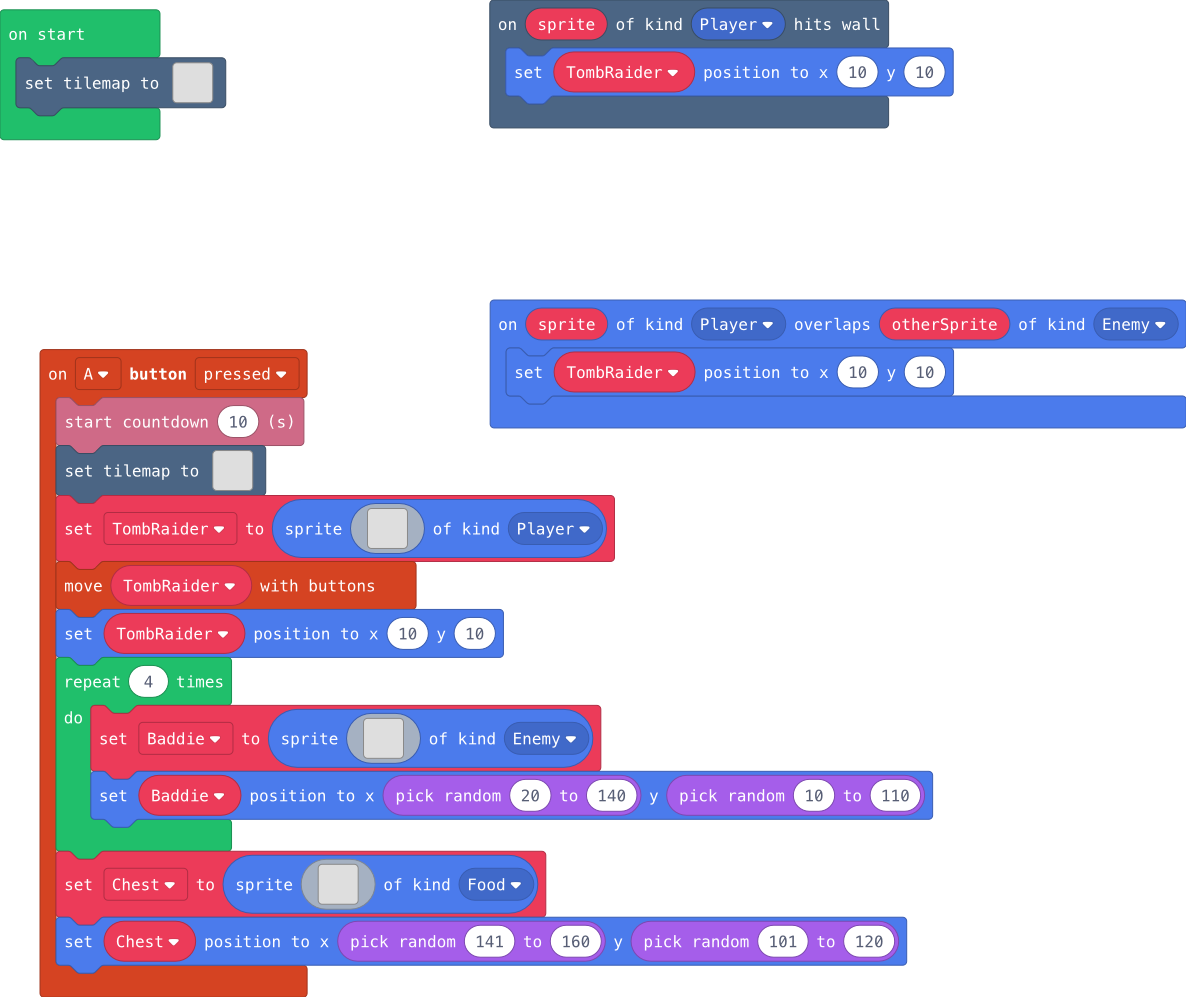
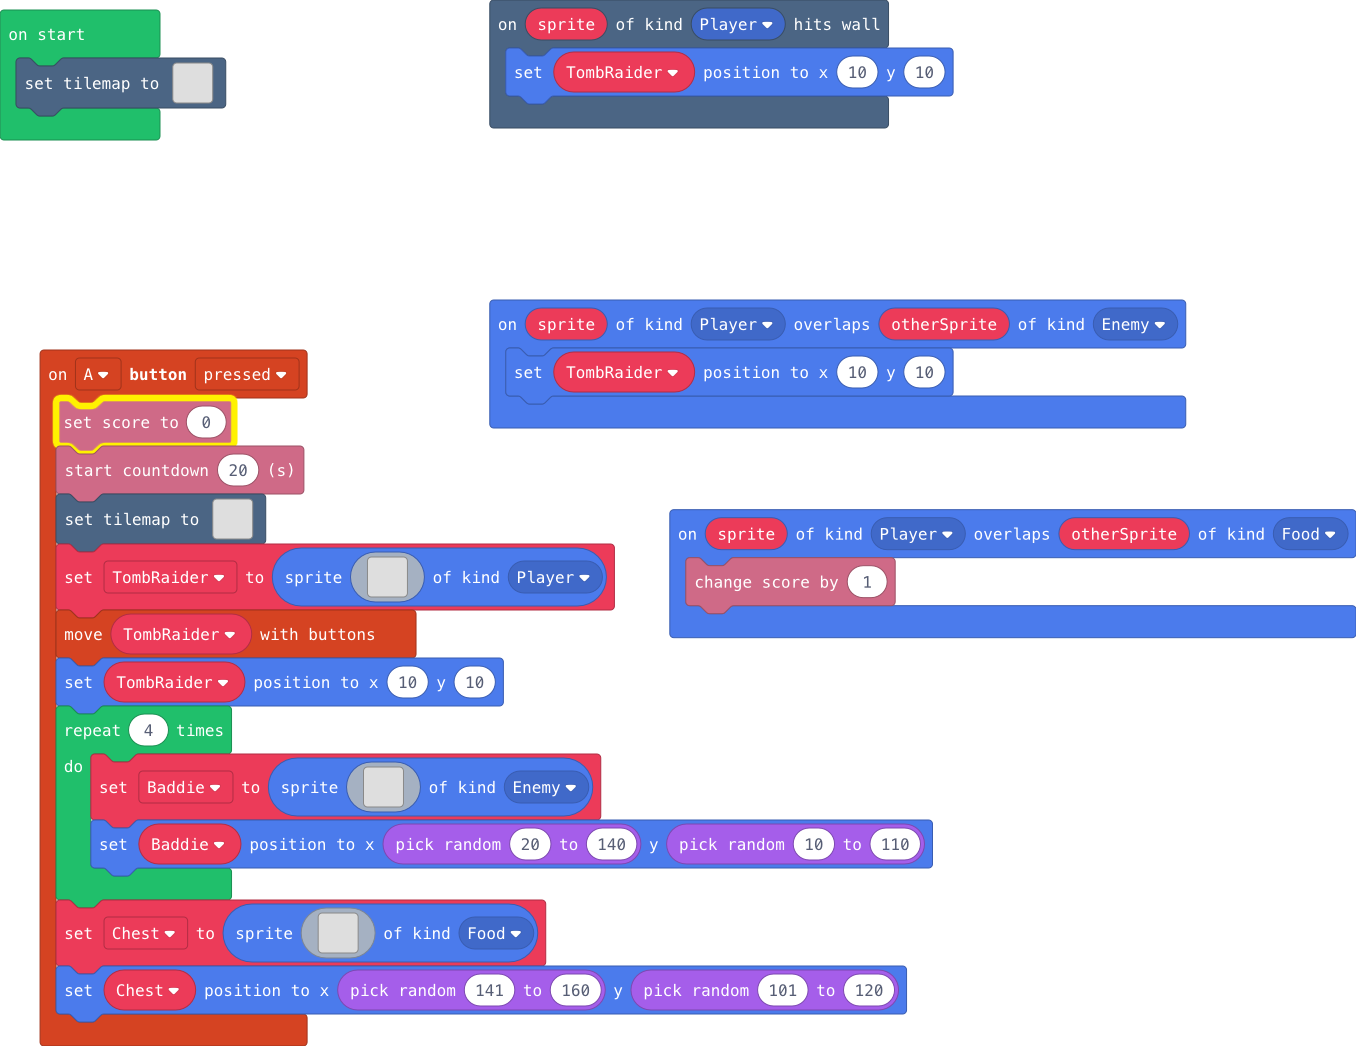
Update main.blocks, main.ts

diff --git a/main.ts b/main.ts
@@ -60,8 +60,12 @@ namespace myTiles {
 scene.onHitWall(SpriteKind.Player, function (sprite) {
     TombRaider.setPosition(10, 10)
 })
+sprites.onOverlap(SpriteKind.Player, SpriteKind.Food, function (sprite, otherSprite) {
+    info.changeScoreBy(1)
+})
 controller.A.onEvent(ControllerButtonEvent.Pressed, function () {
-    info.startCountdown(10)
+    info.setScore(0)
+    info.startCountdown(20)
     tiles.setTilemap(tiles.createTilemap(
[1 lines of base64/hex data omitted]
             img`
